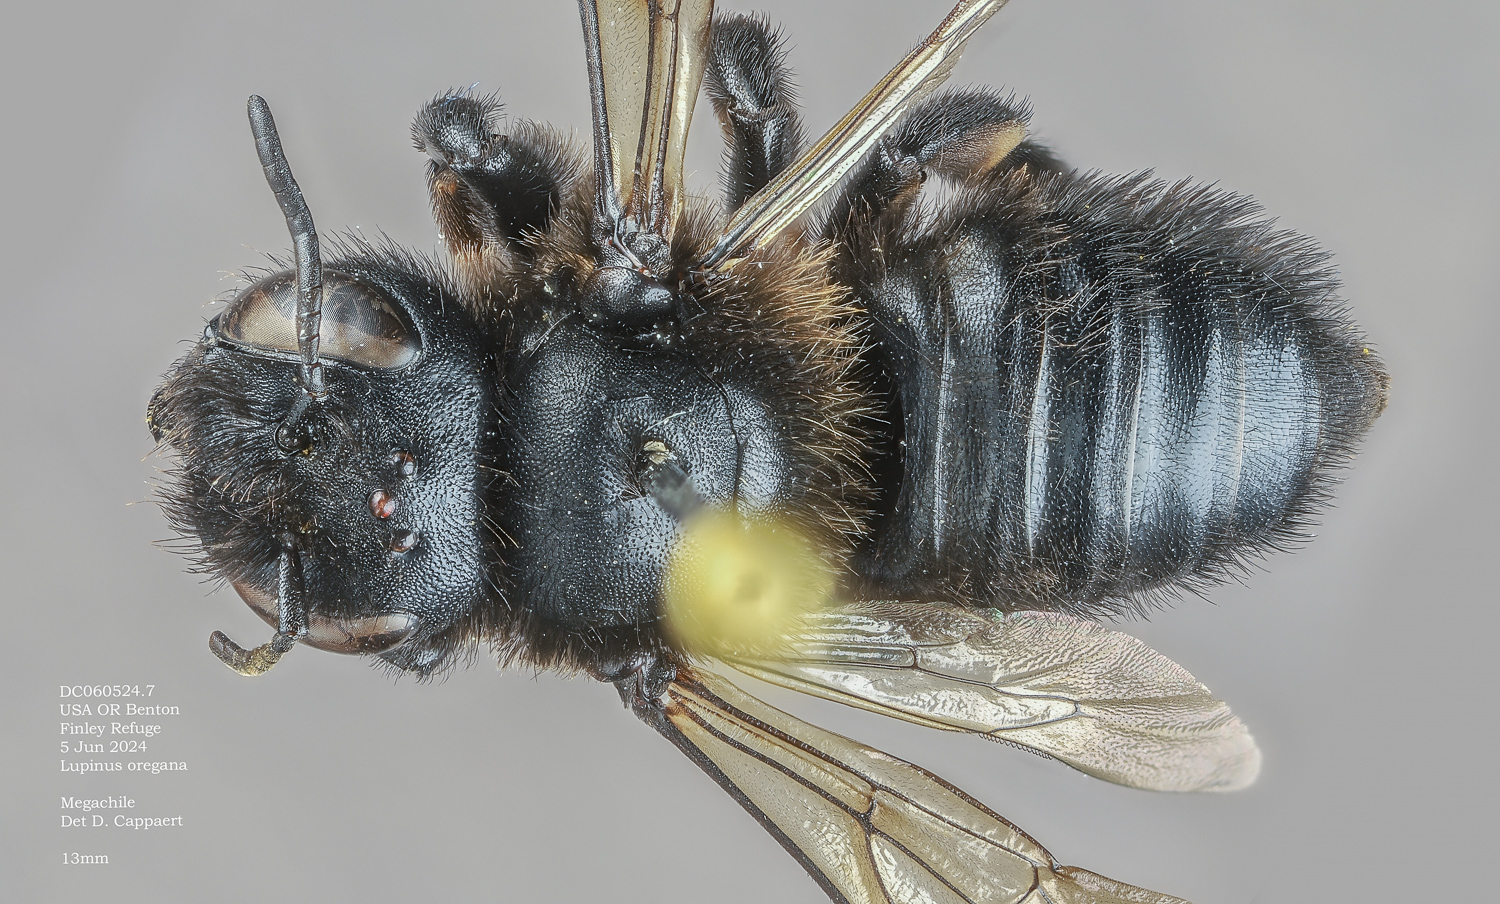
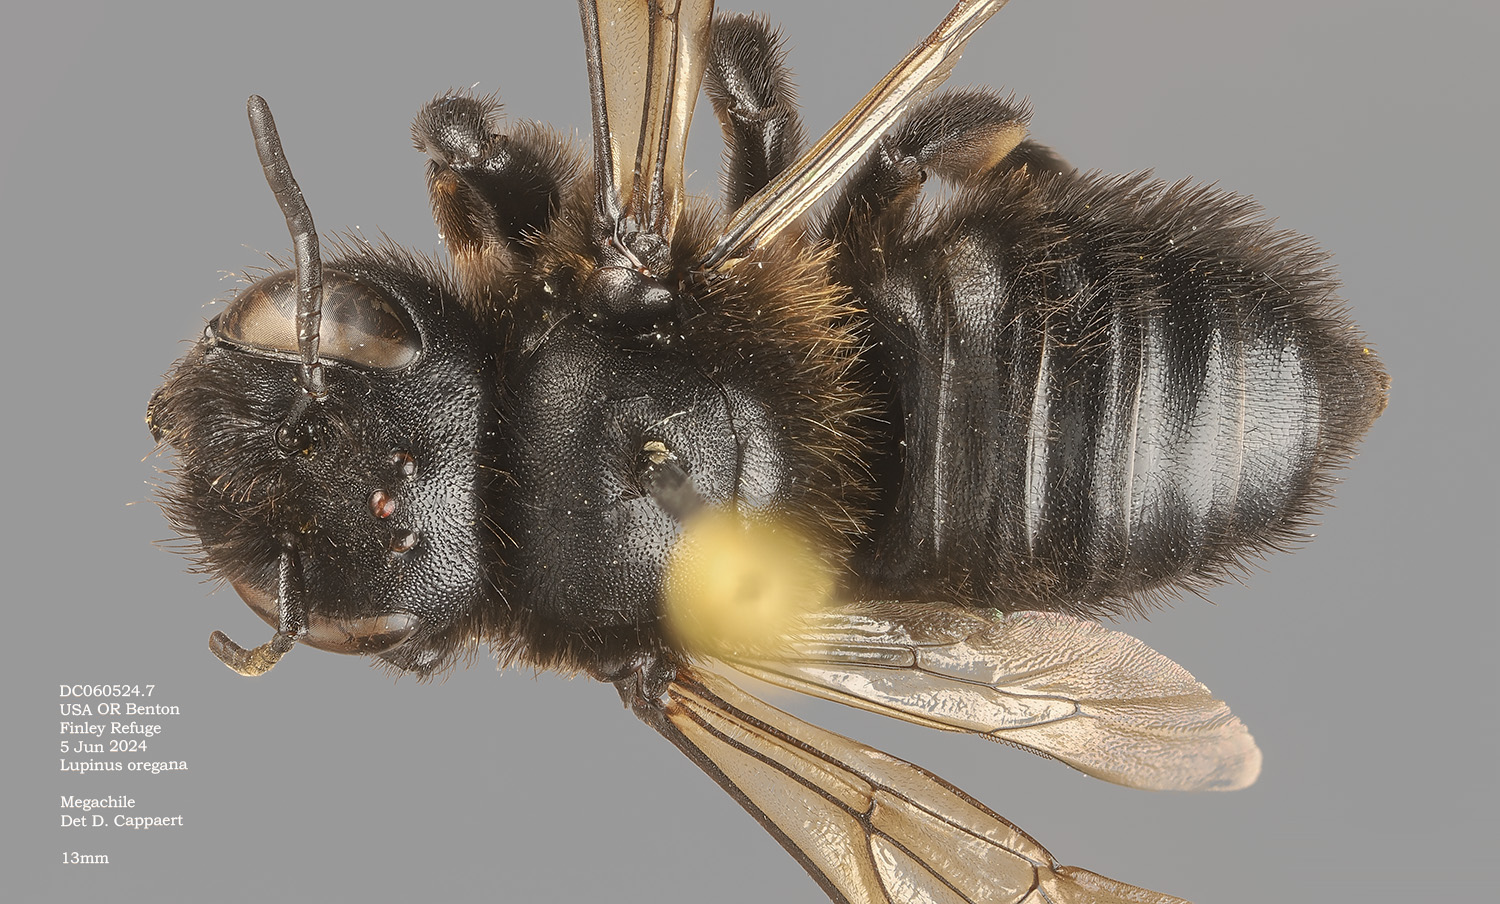
nigrihirta

diff --git a/2024/DLC 2024.html b/2024/DLC 2024.html
@@ -17,7 +17,110 @@
 <body bgcolor="#E2E2E2">
 <H1>Insects of note, 2024 Edition</H1>
     <p>I average about 1500 photos per year, mostly insects, which I <a href="https://www.inaturalist.org/observations?place_id=any&user_id=cappaert&verifiable=any">post</a> to iNaturalist for ID. Occasionally a specimen deserves more <a href="#attention">attention</a>. 
-<hr class="heavy-rule">
+
+    <hr class="heavy-rule">
+<table width="100%">
+    <tbody>
+        <tr>
+            <td width="40%" class="bordered-box-cell">
+                <!-- Third cell with image and caption -->
+                <div class="image-container">
+                    <h2>Andrena nigrihirta</h2>
+
+                    
+                    <img src="Andrena nigrihirta,female,lateral,DC060624.1.jpg" class="gallery-image" onclick="openOverlay('Andrena nigrihirta,female,lateral,DC060624.1.jpg')">
+                    
+
+                </div>
+            </td>
+            <td width="40%" class="bordered-box-cell">
+                <!-- Second cell with image and caption -->
+                <div class="image-container">
+                    <img src="Andrena nigrihirta,female,dorsal,DC060624.1.jpg" class="gallery-image" onclick="openOverlay('Andrena nigrihirta,female,dorsal,DC060624.1.jpg')">
+       
+
+                </div>
+            </td>
+            <td width="20%" class="bordered-box-cell">
+                <!-- Third cell with image and caption -->
+                <div class="image-container">
+                    <img src="Andrena nigrihirta,female,head,DC060624.1.jpg" class="gallery-image" onclick="openOverlay('Andrena nigrihirta,female,head,DC060624.1.jpg')">
+ 
+
+                </div>
+            </td>
+ 
+        </tr>
+    </tbody>
+</table>
+    <hr class="heavy-rule">
+<table width="100%">
+    <tbody>
+        <tr>
+            <td width="40%" class="bordered-box-cell">
+                <!-- Third cell with image and caption -->
+                <div class="image-container">
+                    <h2>An entirely black Megachile</h2><p>Any western Megachile I've ever seen has white tergal hair bands. The only black Megachile in the US that I find is Megachile xylocopoides, a southeastern species.</p>
+                    
+                    <img src="Megachile black,female,lateral,DC060524.7.jpg" class="gallery-image" onclick="openOverlay('Megachile black,female,lateral,DC060524.7.jpg')">
+                    
+
+                </div>
+            </td>
+            <td width="40%" class="bordered-box-cell">
+                <!-- Second cell with image and caption -->
+                <div class="image-container">
+                    <img src="Megachile black,female,dorsal,DC060524.7.jpg" class="gallery-image" onclick="openOverlay('Megachile black,female,dorsal,DC060524.7.jpg')">
+       
+                    <div class="caption">The color here is truer to the specimen than the slightly greenish cast of the lateral view.</div>
+                </div>
+            </td>
+            <td width="20%" class="bordered-box-cell">
+                <!-- Third cell with image and caption -->
+                <div class="image-container">
+                    <img src="Megachile black,female,head,DC060524.7.jpg" class="gallery-image" onclick="openOverlay('Megachile black,female,head,DC060524.7.jpg')">
+ 
+
+                </div>
+            </td>
+ 
+        </tr>
+    </tbody>
+</table>
+    <hr class="heavy-rule">
+    <table width="100%"><tbody>
+                                            <tr>
+                                                                <td width="20%" class="text-cell"><!-- Second cell with image and caption -->
+                                                                                   <h2>Osmia "T2 punc" cyanella?&nbsp;</h2>
+                                                                                   <p>Small--8.5mm. T2 impunctate to near apical margin, in straight row. Back of head carinate. O. cyanella seems to fit in Rightmyer draft key. Packer image in DL also fits.</p>
+                                                                                                      
+                                                                </div></td>
+
+ <td width="35%" class="bordered-box-cell"><!-- Second cell with image and caption -->
+                                                                                    <div class="image-container"> <img src="Osmia t2 punc,female,LUPOR,DC052027.10.jpg" class="gallery-image" onClick="openOverlay('Osmia t2 punc,female,LUPOR,DC052027.10.jpg')">
+                                                                                                                <div class="caption"> </div>
+                                                                                        <img src="Osmia t2 punc,female,dorsal,LUPOR,DC052027.10.jpg" class="gallery-image" onClick="openOverlay('Osmia t2 punc,female,LUPOR,DC052027.10.jpg')">
+                                                                                                      
+                                                                                    </div></td>
+     <td width="20%" class="bordered-box-cell"><!-- Second cell with image and caption -->
+                                                                                    <div class="image-container"> <img src="Osmia t2 punc,female,clypeus,LUPOR,DC052027.10.jpg" class="gallery-image" onClick="openOverlay('Osmia t2 punc,female,clypeus,LUPOR,DC052027.10.jpg')">
+                                                                                        <div class="caption">&nbsp;</div>
+                                                                                        <img src="Osmia t2 punc,female,mandible,LUPOR,DC052027.10.jpg" class="gallery-image" onClick="openOverlay('Osmia t2 punc,female,mandible,LUPOR,DC052027.10.jpg')">
+                                                                                                      
+                                                                                    </div></td>
+                                                                                        <td width="20%" class="bordered-box-cell"><!-- Second cell with image and caption -->
+                                                                                                 <div class="caption"></div>
+                                                                                    <div class="image-container"> <img src="Osmia t2 punc,female,scutum,LUPOR,DC052027.10.jpg" class="gallery-image" onClick="openOverlay('Osmia t2 punc,female,scutum,LUPOR,DC052027.10.jpg')">
+                                                                                        <div class="image-container"> <img src="Osmia t2 punc,female,T2,LUPOR,DC052027.10.jpg" class="gallery-image" onClick="openOverlay('Osmia t2 punc,female,scutum,LUPOR,DC052027.10.jpg')">
+                                                                                       
+ 
+
+ 
+                                                                                                      
+                                                                                    </div></td>
+    </tr>
+                        </tbody>
+</table><hr class="heavy-rule">
     <table width="100%"><tbody>
                                             <tr>
                                                                 <td width="20%" class="text-cell"><!-- Second cell with image and caption -->
@@ -216,7 +319,7 @@
                 <!-- Second cell with image and caption -->
                 <div class="image-container">
                     <img src="Andrena angustitarsata,female,lateral,HF,LUPORE,DC052024.3_.jpg" class="gallery-image" onclick="openOverlay('Andrena angustitarsata,female,lateral,HF,LUPORE,DC052024.3_.jpg')">
- 
+                         <div class="caption">Andrena angustitarsata</div>
                 </div>
             </td>
                       <td width="23%" class="bordered-box-cell">
